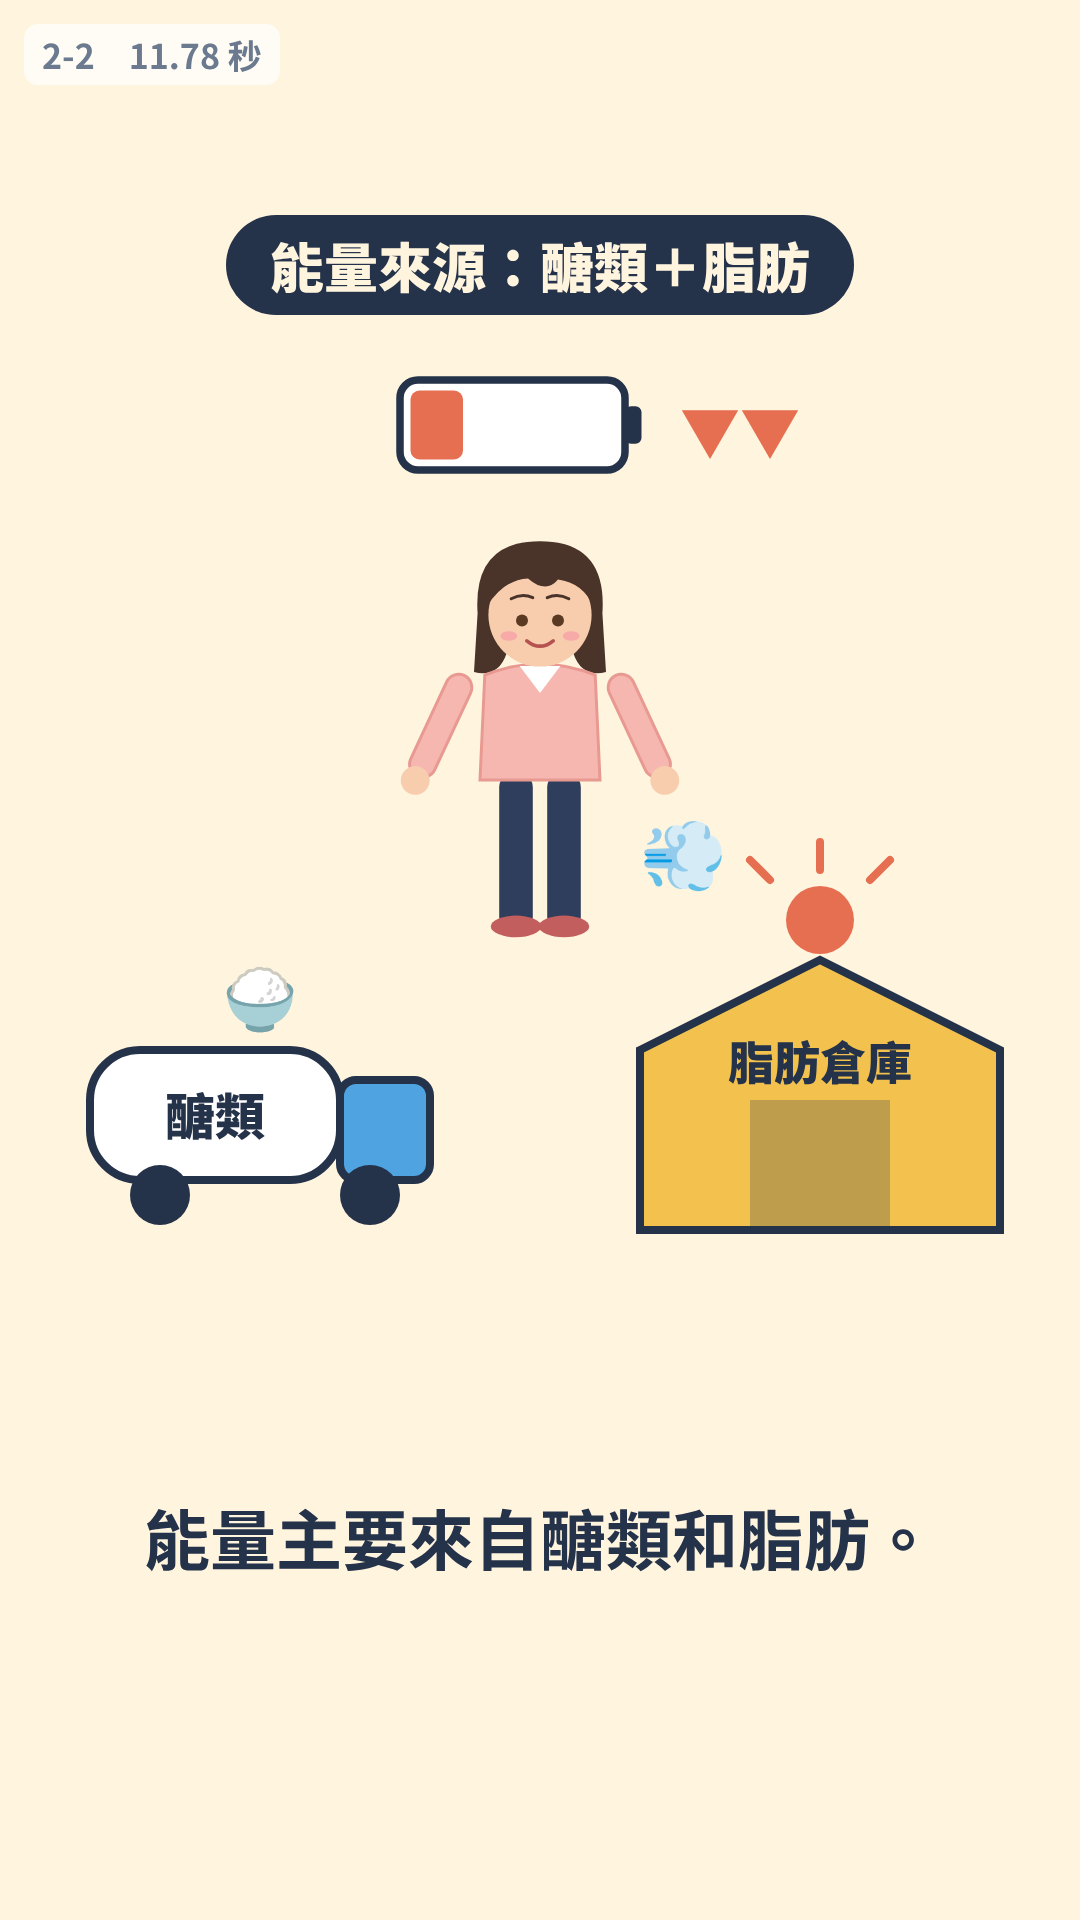
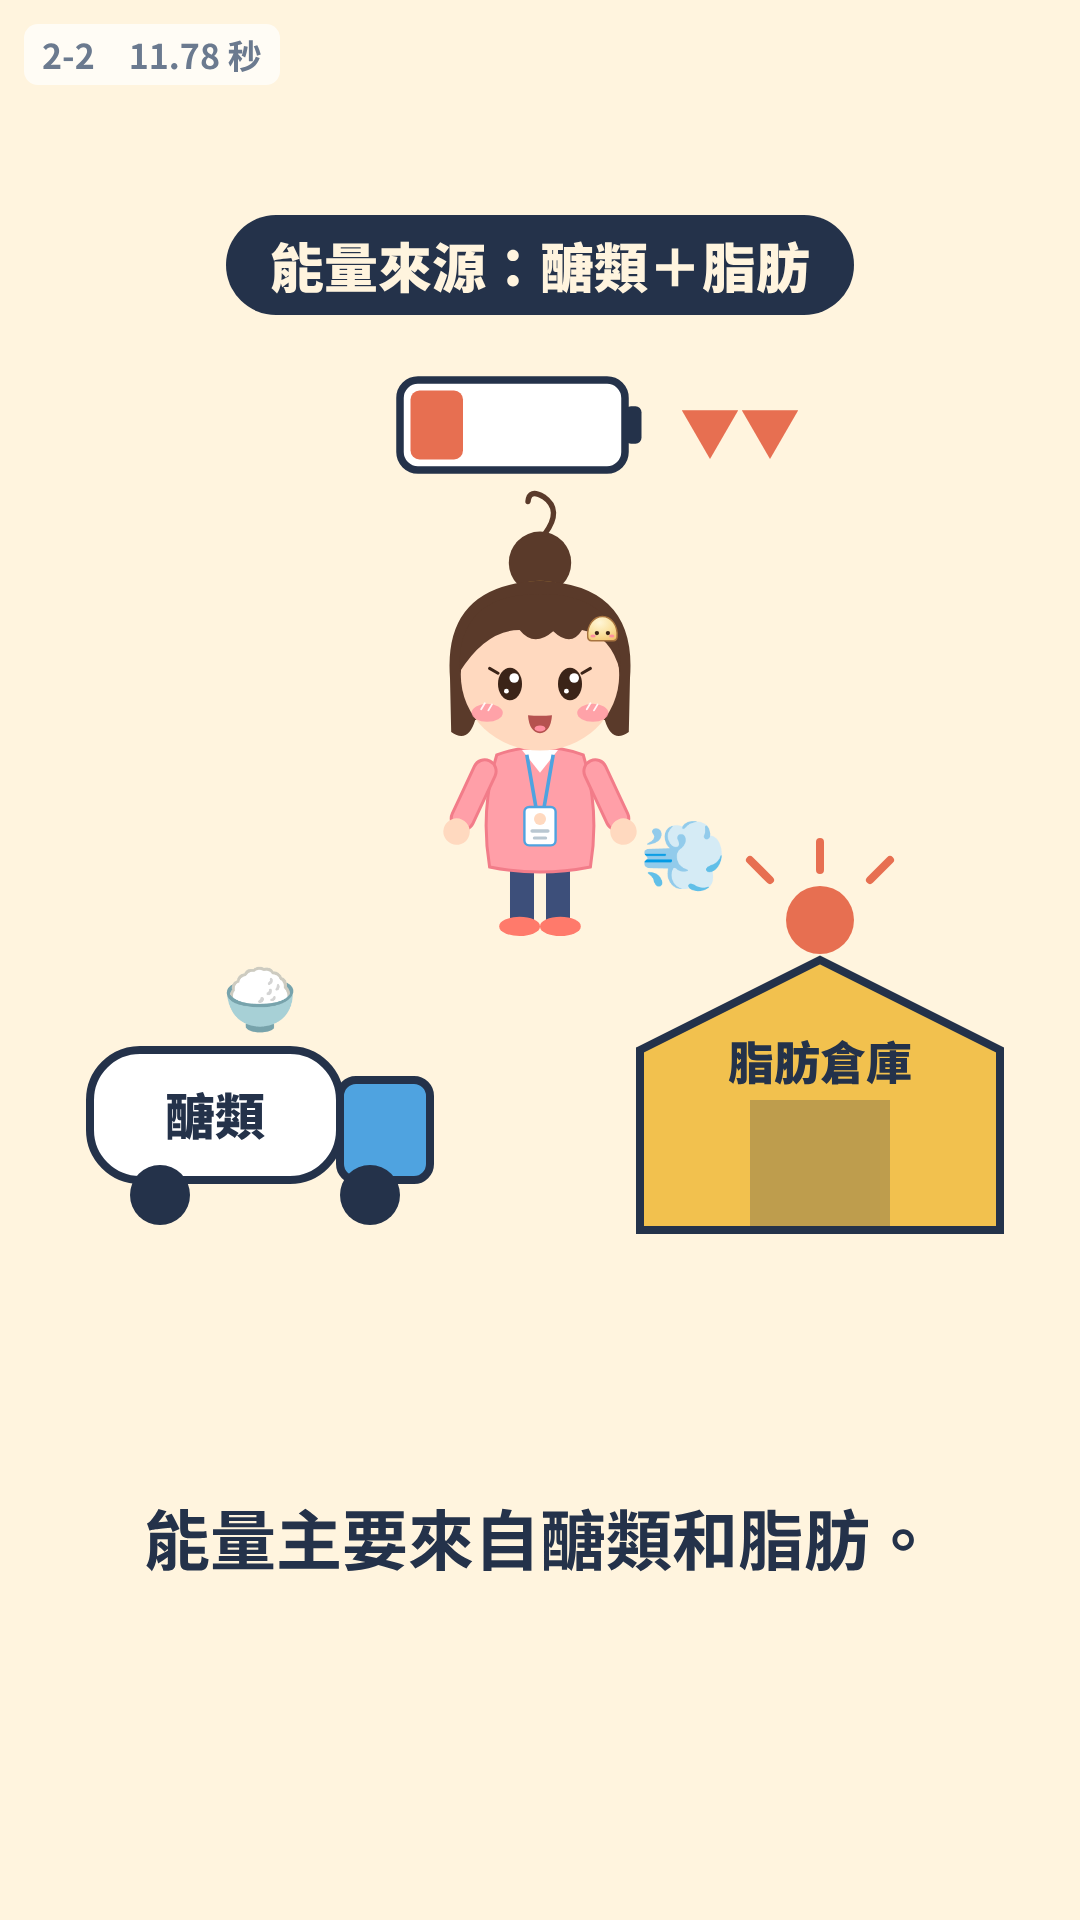
脂肪專案：阿肥改成 Q 版可愛造型（包包頭、呆毛、大眼、油油髮夾、員工證）
Claude-Session: https://claude.ai/code/session_014fzaRRSj4catvv5FGHfu2h

Changed region(s): [[0.3667, 0.25, 0.6417, 0.5]]

diff --git a/projects/where-does-fat-go/storyboard/frames/frames.html b/projects/where-does-fat-go/storyboard/frames/frames.html
@@ -51,9 +51,35 @@
     <!-- 脂肪酸毛毛蟲（頭在 0,0，往右延伸約 160） -->
     <g id="fa"><circle cx="140.0" cy="1.5" r="15" fill="#F5C66A" stroke="#A8743F" stroke-width="4"/><circle cx="112.0" cy="-6.2" r="15" fill="#F5C66A" stroke="#A8743F" stroke-width="4"/><circle cx="84.0" cy="-4.8" r="15" fill="#F5C66A" stroke="#A8743F" stroke-width="4"/><circle cx="56.0" cy="3.6" r="15" fill="#F5C66A" stroke="#A8743F" stroke-width="4"/><circle cx="28.0" cy="6.7" r="15" fill="#F5C66A" stroke="#A8743F" stroke-width="4"/><circle cx="0" cy="0" r="24" fill="#F5C66A" stroke="#A8743F" stroke-width="4"/><circle cx="-8" cy="-3" r="4.5" fill="#5A3A22"/><circle cx="8" cy="-3" r="4.5" fill="#5A3A22"/><ellipse cx="-14" cy="8" rx="5" ry="3" fill="#F7A1A8"/><ellipse cx="14" cy="8" rx="5" ry="3" fill="#F7A1A8"/><path d="M-4,8 q4,5 8,0" fill="none" stroke="#5A3A22" stroke-width="2.5" stroke-linecap="round"/></g>
     <!-- 阿肥（女性）：腳底在 (0,0) -->
-    <g id="af"><path d="M-104,-528 Q-112,-648 0,-648 Q112,-648 104,-528 L110,-430 Q70,-420 56,-460 L-56,-460 Q-70,-420 -110,-430 Z" fill="#4A3328"/><rect x="-68" y="-260" width="56" height="260" rx="22" fill="#2F3E5C"/><rect x="12" y="-260" width="56" height="260" rx="22" fill="#2F3E5C"/><ellipse cx="-40" cy="-6" rx="42" ry="18" fill="#C25E5E"/><ellipse cx="40" cy="-6" rx="42" ry="18" fill="#C25E5E"/><path d="M-100,-250 L-92,-425 Q0,-462 92,-425 L100,-250 Z" fill="#F6B7B0" stroke="#E89A92" stroke-width="5"/><path d="M-34,-440 L0,-395 L34,-440 Z" fill="#fff"/><circle cx="0" cy="-525" r="86" fill="#F7CDAE"/><path d="M-88,-540 Q-84,-626 0,-624 Q84,-626 88,-540 Q72,-578 30,-584 Q10,-560 -20,-586 Q-60,-584 -88,-540 Z" fill="#4A3328"/><circle cx="-30" cy="-516" r="10" fill="#5A3A22"/><circle cx="30" cy="-516" r="10" fill="#5A3A22"/><path d="M-48,-552 q18,-10 36,-2 M12,-554 q18,-8 36,2" fill="none" stroke="#4A3328" stroke-width="5" stroke-linecap="round"/><ellipse cx="-52" cy="-490" rx="14" ry="8" fill="#F7A1A8" opacity=".8"/><ellipse cx="52" cy="-490" rx="14" ry="8" fill="#F7A1A8" opacity=".8"/><path d="M-22,-482 q22,18 44,0" fill="none" stroke="#B5524F" stroke-width="6" stroke-linecap="round"/></g>
-    <g id="arm-l"><rect x="-146" y="-425" width="44" height="185" rx="22" fill="#F6B7B0" stroke="#E89A92" stroke-width="5"/><circle cx="-124" cy="-232" r="24" fill="#F7CDAE"/></g>
-    <g id="arm-r"><rect x="102" y="-425" width="44" height="185" rx="22" fill="#F6B7B0" stroke="#E89A92" stroke-width="5"/><circle cx="124" cy="-232" r="24" fill="#F7CDAE"/></g>
+    <g id="af">
+      <rect x="-50" y="-115" width="40" height="115" rx="18" fill="#3D4F7A"/><rect x="10" y="-115" width="40" height="115" rx="18" fill="#3D4F7A"/>
+      <ellipse cx="-34" cy="-6" rx="34" ry="16" fill="#FF7A6B"/><ellipse cx="34" cy="-6" rx="34" ry="16" fill="#FF7A6B"/>
+      <path d="M-84,-105 Q-100,-200 -72,-292 Q0,-318 72,-292 Q100,-200 84,-105 Q0,-88 -84,-105 Z" fill="#FF9FA8" stroke="#F27C89" stroke-width="5"/>
+      <path d="M-30,-300 L0,-262 L30,-300 Z" fill="#fff"/>
+      <path d="M-22,-292 L-6,-200 M22,-292 L6,-200" stroke="#4FA3E0" stroke-width="6"/>
+      <rect x="-26" y="-205" width="52" height="64" rx="8" fill="#fff" stroke="#4FA3E0" stroke-width="4"/>
+      <circle cx="0" cy="-185" r="10" fill="#FFD9BF"/><rect x="-16" y="-168" width="32" height="6" rx="3" fill="#B9C7D1"/><rect x="-12" y="-156" width="24" height="5" rx="2.5" fill="#B9C7D1"/>
+      <circle cx="0" cy="-612" r="52" fill="#5A3A2A"/>
+      <ellipse cx="0" cy="-566" rx="40" ry="14" fill="#F6C945" stroke="#C99A3E" stroke-width="4"/>
+      <path d="M8,-660 q30,-40 -2,-62 q-24,-14 -26,8" fill="none" stroke="#5A3A2A" stroke-width="9" stroke-linecap="round"/>
+      <path d="M-150,-420 Q-162,-575 0,-582 Q162,-575 150,-420 L148,-330 Q120,-310 108,-350 L-108,-350 Q-120,-310 -148,-330 Z" fill="#5A3A2A"/>
+      <ellipse cx="0" cy="-425" rx="132" ry="126" fill="#FFD9BF"/>
+      <path d="M-134,-430 Q-140,-560 0,-560 Q140,-560 134,-430 Q118,-492 70,-500 Q52,-470 22,-498 Q-10,-470 -34,-500 Q-90,-500 -134,-430 Z" fill="#5A3A2A"/>
+      <g transform="translate(104,-500) scale(.2)">
+        <path d="M-122,62 C-132,-40 -72,-112 0,-112 C72,-112 132,-40 122,62 Q119,88 92,90 H-92 Q-119,88 -122,62 Z" fill="url(#mochi)" stroke="#A8743F" stroke-width="12"/>
+        <circle cx="-46" cy="26" r="18" fill="#3B2418"/><circle cx="46" cy="26" r="18" fill="#3B2418"/>
+        <ellipse cx="-78" cy="50" rx="22" ry="13" fill="#FF8FA0"/><ellipse cx="78" cy="50" rx="22" ry="13" fill="#FF8FA0"/>
+      </g>
+      <ellipse cx="-50" cy="-410" rx="20" ry="27" fill="#3B2418"/><ellipse cx="50" cy="-410" rx="20" ry="27" fill="#3B2418"/>
+      <circle cx="-43" cy="-420" r="8" fill="#fff"/><circle cx="57" cy="-420" r="8" fill="#fff"/>
+      <circle cx="-56" cy="-398" r="4" fill="#fff"/><circle cx="44" cy="-398" r="4" fill="#fff"/>
+      <path d="M-70,-428 l-14,-8 M70,-428 l14,-8" stroke="#3B2418" stroke-width="5" stroke-linecap="round"/>
+      <ellipse cx="-88" cy="-362" rx="26" ry="15" fill="#FF8FA0" opacity=".75"/><ellipse cx="88" cy="-362" rx="26" ry="15" fill="#FF8FA0" opacity=".75"/>
+      <path d="M-98,-368 l6,-10 M-86,-366 l6,-10 M78,-368 l6,-10 M90,-366 l6,-10" stroke="#fff" stroke-width="3" stroke-linecap="round" opacity=".9"/>
+      <path d="M-20,-358 Q0,-356 20,-358 Q18,-330 0,-328 Q-18,-330 -20,-358 Z" fill="#B5524F"/>
+      <ellipse cx="0" cy="-336" rx="9" ry="5" fill="#FF8FA0"/></g>
+    <g id="arm-l"><rect x="-104" y="-282" width="38" height="125" rx="19" fill="#FF9FA8" stroke="#F27C89" stroke-width="5"/><circle cx="-85" cy="-152" r="22" fill="#FFD9BF"/></g>
+    <g id="arm-r"><rect x="66" y="-282" width="38" height="125" rx="19" fill="#FF9FA8" stroke="#F27C89" stroke-width="5"/><circle cx="85" cy="-152" r="22" fill="#FFD9BF"/></g>
     <g id="batt-frame"><rect x="0" y="0" width="300" height="120" rx="24" fill="#fff" stroke="#24324A" stroke-width="10"/><rect x="300" y="35" width="22" height="50" rx="8" fill="#24324A"/></g>
     <g id="co2"><circle r="46" fill="#D5DEE7" stroke="#8C9AAA" stroke-width="5"/><ellipse cx="-18" cy="-24" rx="10" ry="5" fill="#fff" opacity=".9" transform="rotate(-30 -18 -24)"/><text y="-8" text-anchor="middle" font-size="24" font-weight="900" fill="#5B6878">CO₂</text><circle cx="-14" cy="12" r="5" fill="#3E4A5A"/><circle cx="14" cy="12" r="5" fill="#3E4A5A"/><ellipse cx="-27" cy="22" rx="7" ry="4" fill="#F7A1A8"/><ellipse cx="27" cy="22" rx="7" ry="4" fill="#F7A1A8"/><path d="M-5,22 q5,6 10,0" fill="none" stroke="#3E4A5A" stroke-width="3" stroke-linecap="round"/></g>
     <g id="co2-wave"><circle r="46" fill="#D5DEE7" stroke="#8C9AAA" stroke-width="5"/><ellipse cx="-18" cy="-24" rx="10" ry="5" fill="#fff" opacity=".9" transform="rotate(-30 -18 -24)"/><text y="-8" text-anchor="middle" font-size="24" font-weight="900" fill="#5B6878">CO₂</text><circle cx="-14" cy="12" r="5" fill="#3E4A5A"/><circle cx="14" cy="12" r="5" fill="#3E4A5A"/><ellipse cx="-27" cy="22" rx="7" ry="4" fill="#F7A1A8"/><ellipse cx="27" cy="22" rx="7" ry="4" fill="#F7A1A8"/><path d="M-5,22 q5,6 10,0" fill="none" stroke="#3E4A5A" stroke-width="3" stroke-linecap="round"/><path d="M40,-10 q22,-14 18,-36" fill="none" stroke="#8C9AAA" stroke-width="7" stroke-linecap="round"/><circle cx="58" cy="-48" r="9" fill="#D5DEE7" stroke="#8C9AAA" stroke-width="4"/></g>
@@ -74,9 +100,9 @@
     <text x="760" y="1080" text-anchor="middle" font-size="56" font-weight="900" fill="#9AA5B1" text-decoration="line-through">70</text>
     <text x="760" y="1140" text-anchor="middle" font-size="64" font-weight="900" fill="#E76F51">↓5</text>
     <g transform="translate(540,1165) scale(.95)"><use href="#af"/><use href="#arm-l"/>
-      <g transform="rotate(-150 127 -430)"><use href="#arm-r"/></g><text x="190" y="-600" font-size="90" class="emo">👍</text></g>
-    <circle cx="330" cy="560" r="80" fill="#fff" stroke="#24324A" stroke-width="8"/>
-    <text x="330" y="595" text-anchor="middle" font-size="110" font-weight="900" fill="#E76F51">?</text>
+      <g transform="rotate(-150 85 -280)"><use href="#arm-r"/></g><text x="105" y="-370" font-size="90" class="emo">👍</text></g>
+    <circle cx="820" cy="680" r="80" fill="#fff" stroke="#24324A" stroke-width="8"/>
+    <text x="820" y="715" text-anchor="middle" font-size="110" font-weight="900" fill="#E76F51">?</text>
   </svg>
   <div class="cap">你減掉的脂肪，到底跑去哪了？</div>
 </div>
@@ -97,7 +123,7 @@
       <text x="860" y="660" text-anchor="middle" font-size="48" fill="#24324A">C 變肌肉</text>
     </g>
     <g transform="translate(540,1300) scale(.8)"><use href="#af"/><use href="#arm-l"/>
-      <g transform="rotate(-130 127 -430)"><use href="#arm-r"/></g></g>
+      <g transform="rotate(-130 85 -280)"><use href="#arm-r"/></g></g>
     <text x="640" y="800" font-size="70" class="emo">🤔</text>
   </svg>
   <div class="cap">流汗流掉？上廁所排掉？還是變成肌肉？</div>
@@ -147,7 +173,7 @@
 <div class="frame" id="f2-2"><div class="tag">2-2　11.78 秒</div>
   <div class="head"><span>能量來源：醣類＋脂肪</span></div>
   <svg class="art" width="1080" height="1920">
-    <g transform="translate(540,930) scale(.6)"><use href="#af"/><use href="#arm-l" transform="rotate(25 -127 -430)"/><use href="#arm-r" transform="rotate(-25 127 -430)"/></g>
+    <g transform="translate(540,930) scale(.6)"><use href="#af"/><use href="#arm-l" transform="rotate(25 -85 -280)"/><use href="#arm-r" transform="rotate(-25 85 -280)"/></g>
     <text x="640" y="880" font-size="70" class="emo">💨</text>
     <g transform="translate(400,380) scale(.75)"><use href="#batt-frame"/><rect x="14" y="14" width="70" height="92" rx="12" fill="#E76F51"/></g>
     <text x="680" y="455" font-size="60" font-weight="900" fill="#E76F51">▼▼</text>
@@ -341,12 +367,14 @@
   <div class="head"><span>84% → 二氧化碳，呼出去</span></div>
   <svg class="art" width="1080" height="1920">
     <!-- 側臉 -->
-    <path d="M92,620 Q84,445 262,442 Q420,448 412,575 L300,540 Q190,560 178,700 L190,820 Q112,830 96,730 Z" fill="#4A3328"/>
-    <circle cx="260" cy="620" r="150" fill="#F7CDAE"/>
-    <path d="M150,560 Q170,450 280,452 Q400,458 412,575 Q360,520 300,535 Q230,520 150,560Z" fill="#4A3328"/>
-    <circle cx="320" cy="606" r="12" fill="#5A3A22"/><path d="M330,596 l12,-8" stroke="#5A3A22" stroke-width="4" stroke-linecap="round"/>
-    <ellipse cx="300" cy="660" rx="22" ry="12" fill="#F7A1A8" opacity=".8"/>
-    <ellipse cx="402" cy="680" rx="20" ry="26" fill="#B5524F"/>
+    <circle cx="150" cy="470" r="50" fill="#5A3A2A"/><ellipse cx="178" cy="505" rx="14" ry="34" fill="#F6C945" stroke="#C99A3E" stroke-width="4" transform="rotate(-35 178 505)"/>
+    <path d="M92,620 Q84,470 262,462 Q420,468 412,585 L300,550 Q190,570 178,700 L186,760 Q112,770 96,700 Z" fill="#5A3A2A"/>
+    <ellipse cx="270" cy="630" rx="148" ry="140" fill="#FFD9BF"/>
+    <path d="M150,560 Q170,470 290,472 Q400,478 414,585 Q360,530 300,548 Q230,535 150,560Z" fill="#5A3A2A"/>
+    <ellipse cx="335" cy="615" rx="14" ry="20" fill="#3B2418"/><circle cx="340" cy="607" r="5" fill="#fff"/>
+    <path d="M346,598 l12,-8" stroke="#3B2418" stroke-width="4" stroke-linecap="round"/>
+    <ellipse cx="320" cy="668" rx="24" ry="13" fill="#FF8FA0" opacity=".75"/>
+    <ellipse cx="404" cy="684" rx="16" ry="20" fill="#B5524F"/>
     <!-- 肺 -->
     <path d="M200,900 C120,900 100,1080 140,1200 C170,1260 250,1250 260,1180 L260,930 Z" fill="#F4A3A3" stroke="#C25555" stroke-width="8"/>
     <path d="M320,900 C400,900 420,1080 380,1200 C350,1260 270,1250 260,1180 L260,930 Z" fill="#F4A3A3" stroke="#C25555" stroke-width="8"/>
@@ -388,7 +416,7 @@
     <circle cx="160" cy="900" r="110" fill="#7CC47F"/><rect x="145" y="960" width="30" height="120" fill="#B5763A"/>
     <circle cx="930" cy="880" r="100" fill="#7CC47F"/><rect x="915" y="930" width="30" height="130" fill="#B5763A"/>
     <g transform="translate(460,1230) scale(.85)"><use href="#af"/><use href="#arm-r"/>
-      <g transform="rotate(150 -127 -430)"><use href="#arm-l"/></g></g>
+      <g transform="rotate(150 -85 -280)"><use href="#arm-l"/></g></g>
     <g transform="translate(620,740) scale(.5)"><use href="#co2"/></g><g transform="translate(690,690) scale(.6)"><use href="#co2"/></g><g transform="translate(770,630) scale(.7)"><use href="#co2"/></g>
     <text x="330" y="590" font-size="90" class="emo">💡</text>
     <g transform="translate(700,420)">
